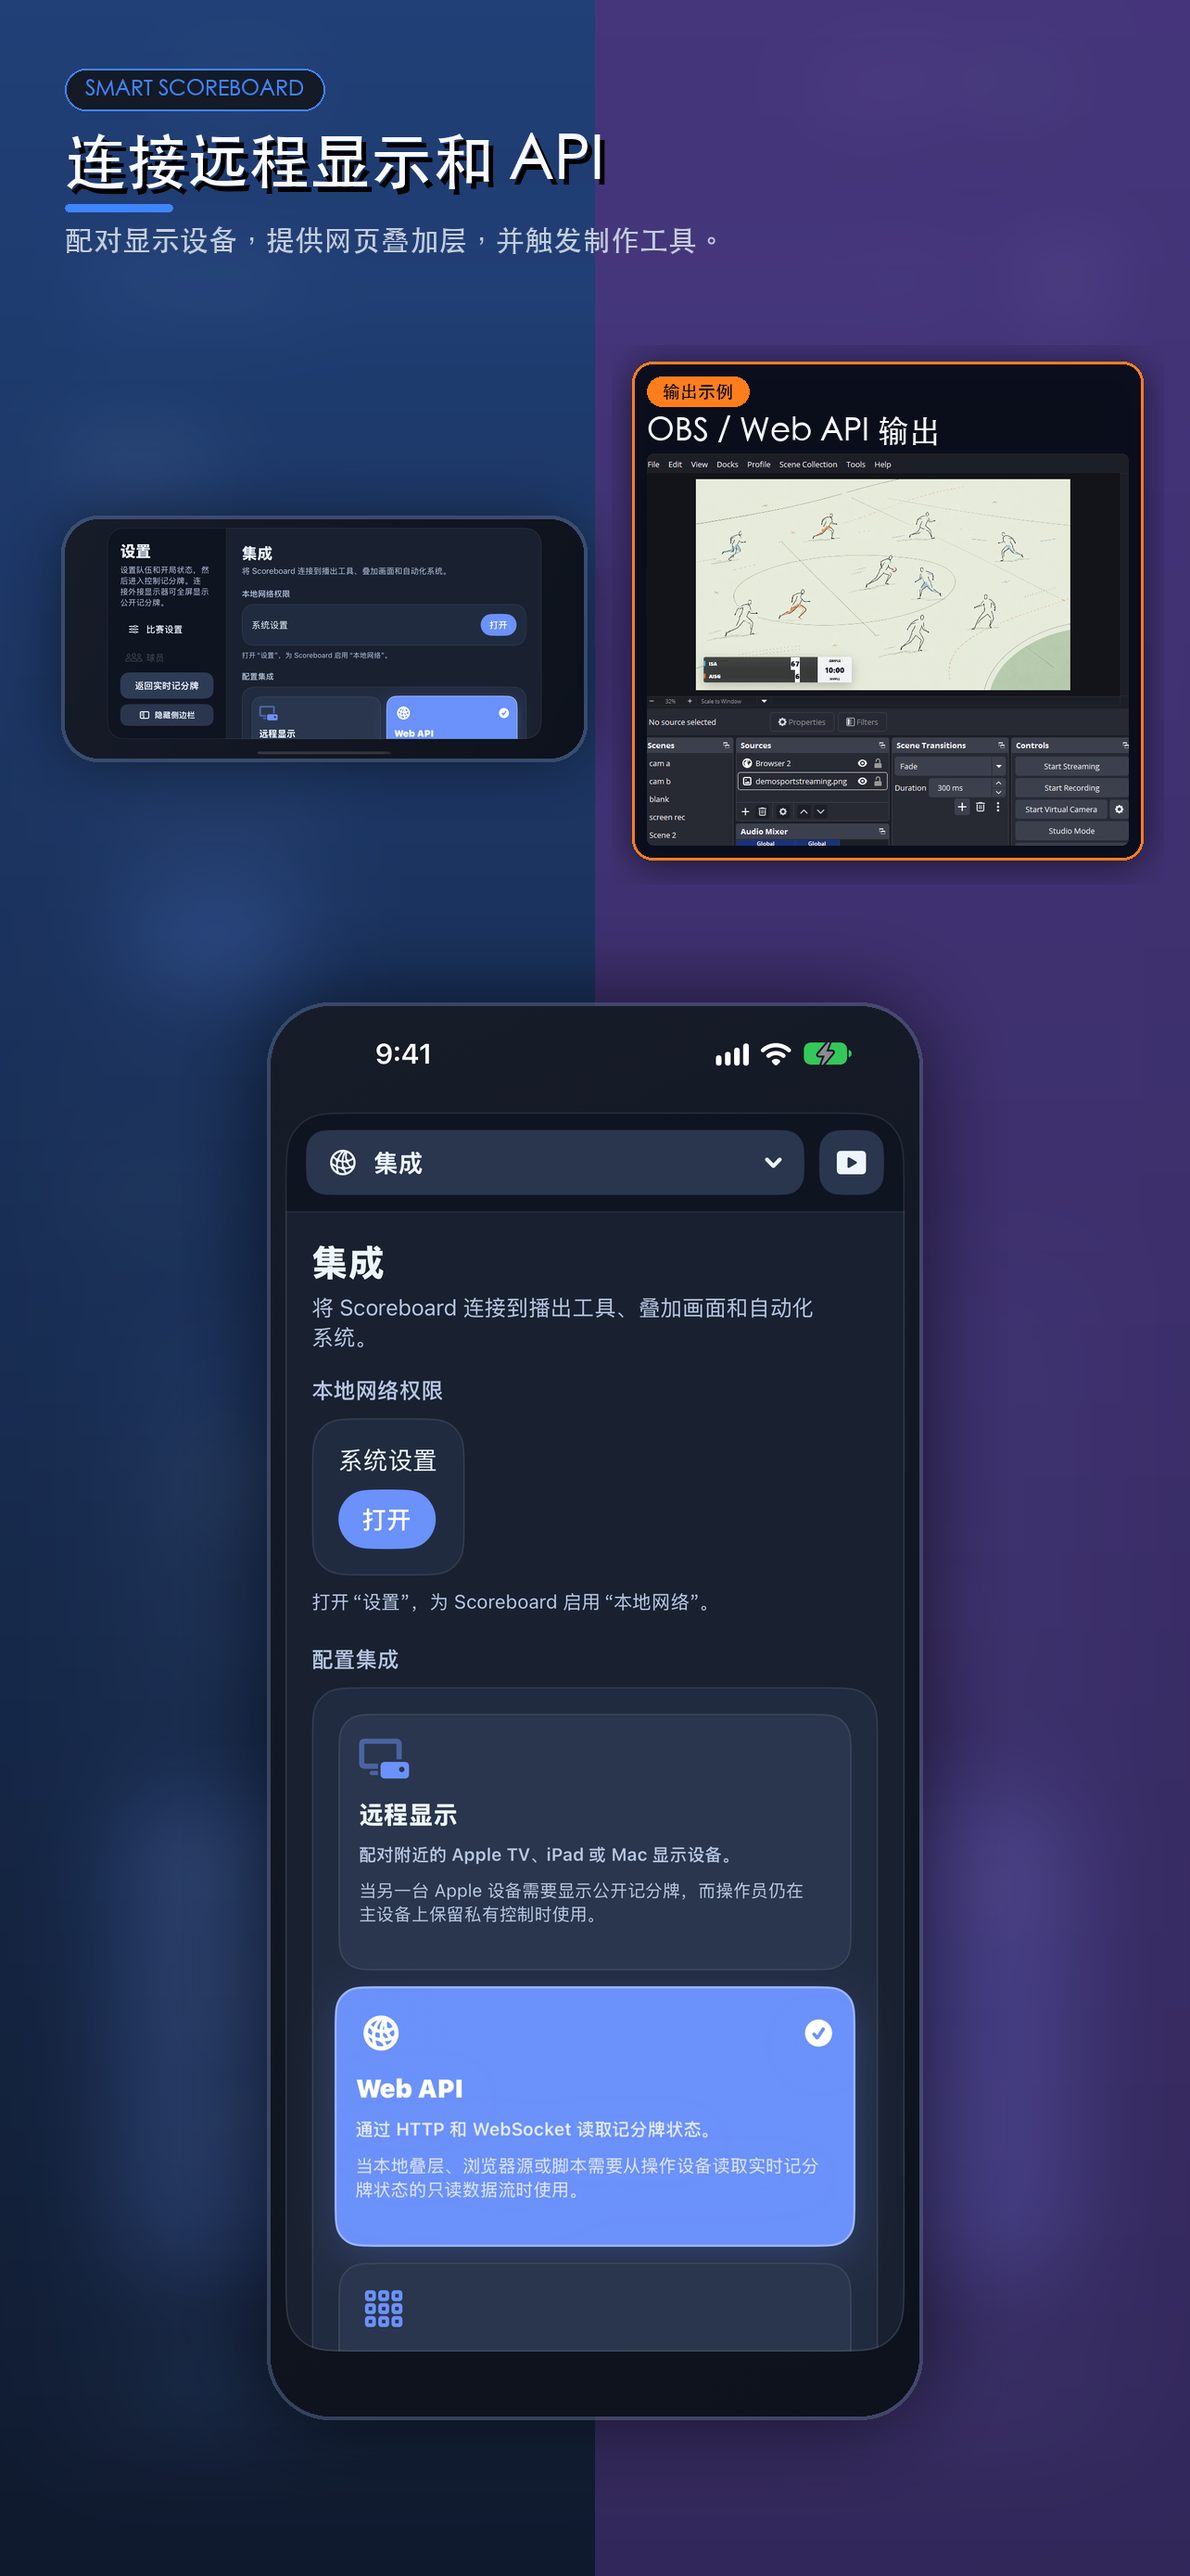
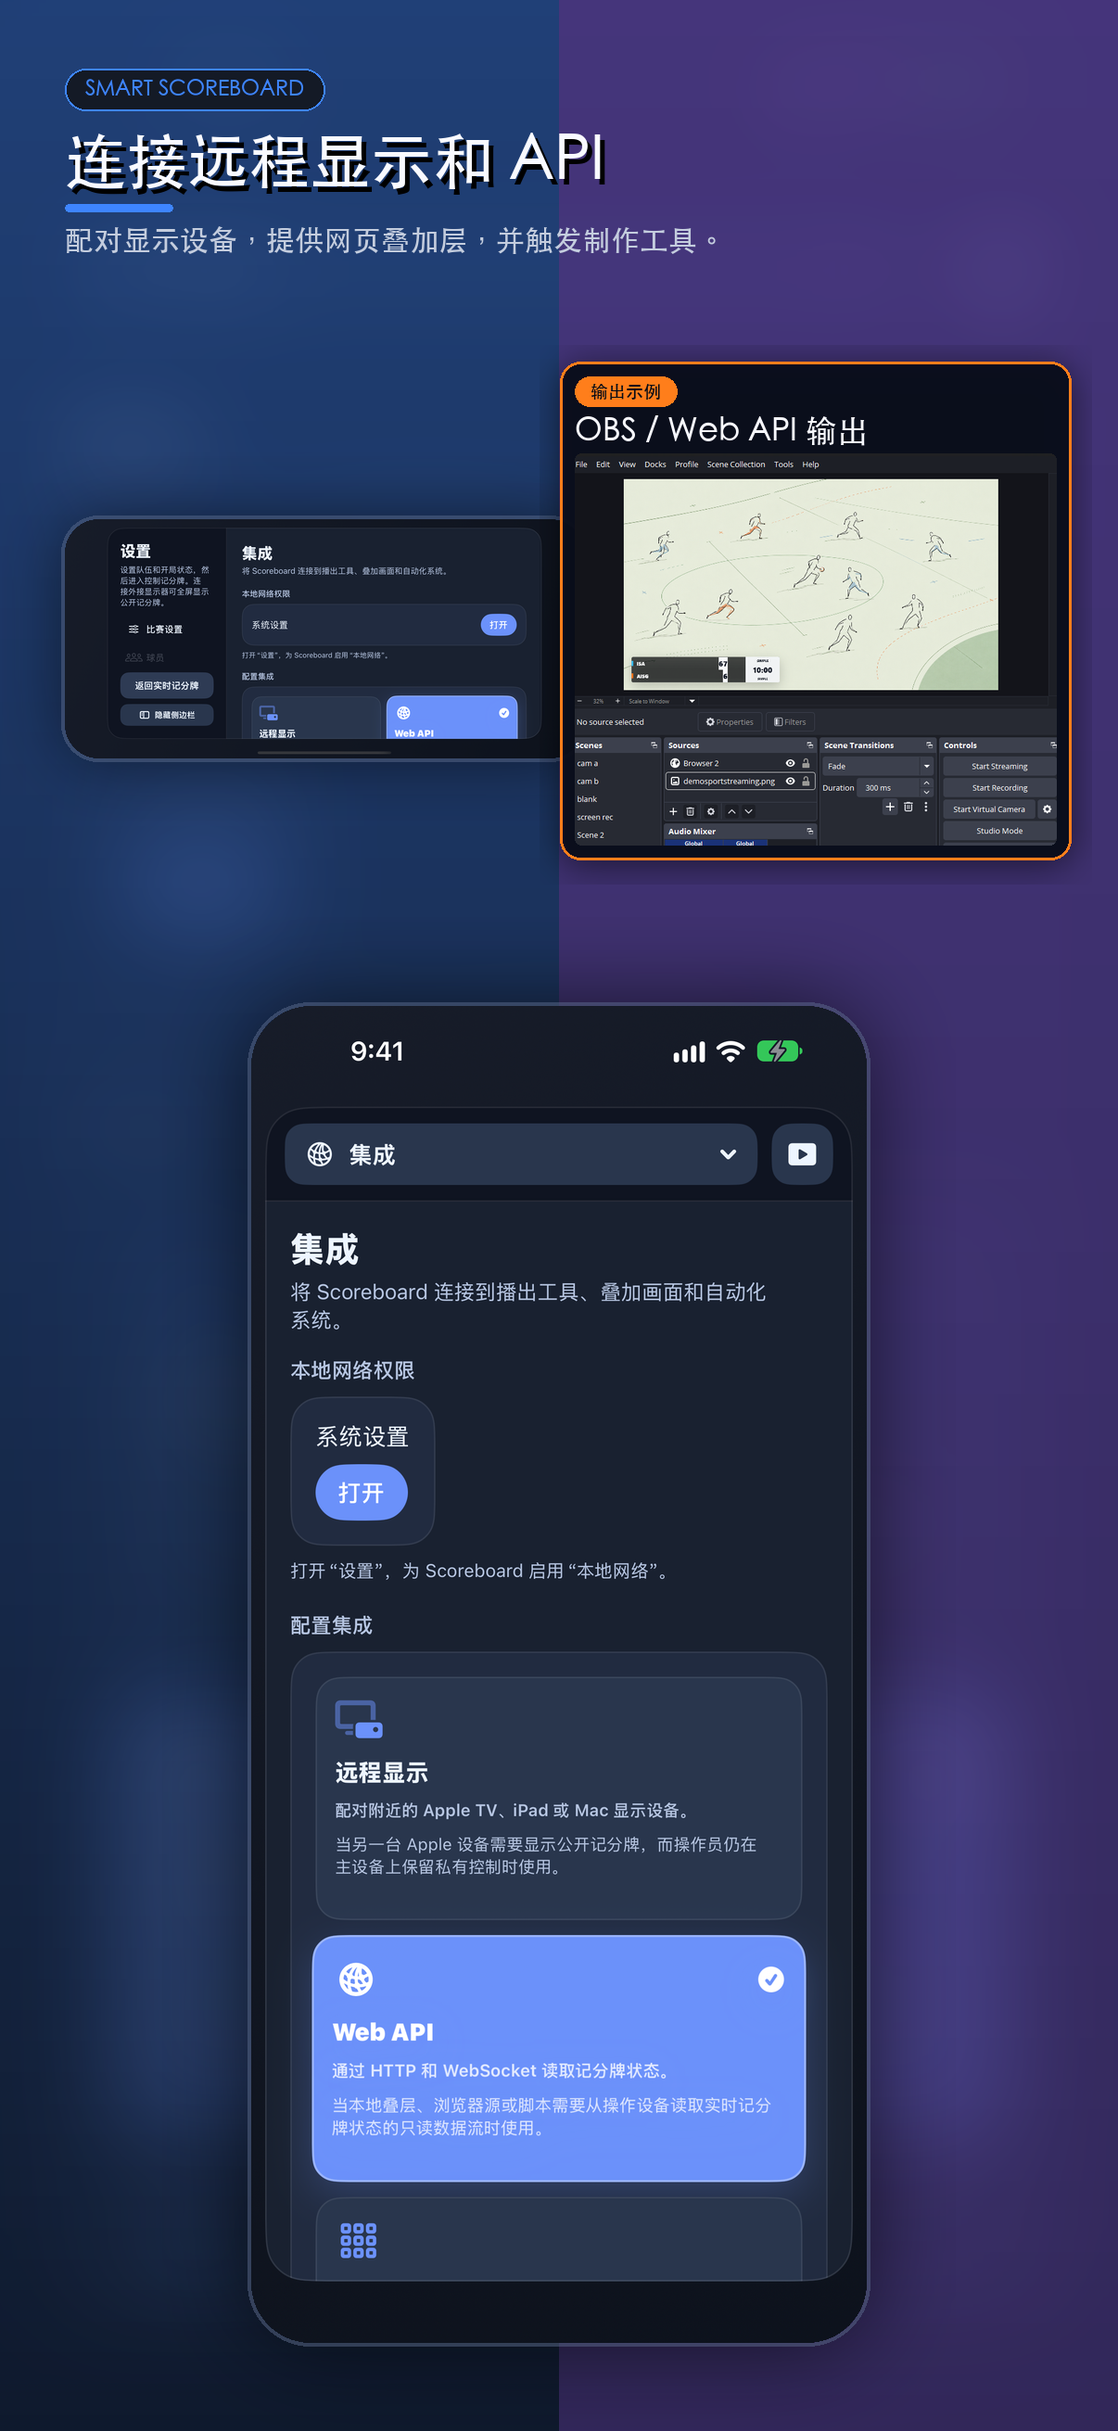
screenshot update

Changed region(s): [[0.0307, 0.0309, 0.9818, 0.9886]]

diff --git a/scripts/generate_app_store_previews.py b/scripts/generate_app_store_previews.py
@@ -42,7 +42,7 @@ PLATFORM_SIZES = {
     "iPhoneDuo": (1398, 2034),
     "iPhoneDuoUnfolded": (2007, 2853),
     "iPhoneDuoCombined": (2853, 2007),
-    "iPhone": (1284, 2778),
+    "iPhone": (1206, 2622),
     "iPad": (2752, 2064),
     "Mac": (2880, 1800),
     "AppleTV": (3840, 2160),
@@ -161,7 +161,7 @@ PROFILES = {
         label_size=23,
         margin_x=70,
         margin_y=74,
-        max_text_width=1088,
+        max_text_width=1066,
         image_top=565,
         image_margin_x=120,
         image_margin_bottom=95,
@@ -251,7 +251,7 @@ PREVIEW_SPECS = [
         ORANGE,
         CYAN,
     ),
-    # iPhone portrait, 1284 x 2778. Most combine portrait and landscape.
+    # iPhone portrait, 1206 x 2622. Most combine portrait and landscape.
     PreviewSpec(
         "iPhone",
         "iPhone/IMG_0921.PNG",
@@ -490,7 +490,7 @@ CHINESE_PREVIEW_SPECS = [
         ORANGE,
         CYAN,
     ),
-    # iPhone portrait, 1284 x 2778. Most combine portrait and landscape.
+    # iPhone portrait, 1206 x 2622. Most combine portrait and landscape.
     PreviewSpec(
         "iPhone",
         "iPhone/IMG_0958.PNG",

diff --git a/AppStorePreviews/README.md b/AppStorePreviews/README.md
@@ -4,7 +4,7 @@ Version 1.6 captures and previews use English and Simplified Chinese:
 
 | Family | Preview size |
 | --- | --- |
-| iPhone | 1284 × 2778, portrait and landscape combined |
+| iPhone | 1206 × 2622, portrait and landscape combined |
 | iPhoneDuo/Folded | 1398 × 2034, native outer display |
 | iPhoneDuo/Unfolded | 2007 × 2853, native inner display |
 | iPhoneDuo/Combined | 2853 × 2007, folded and unfolded views together |
